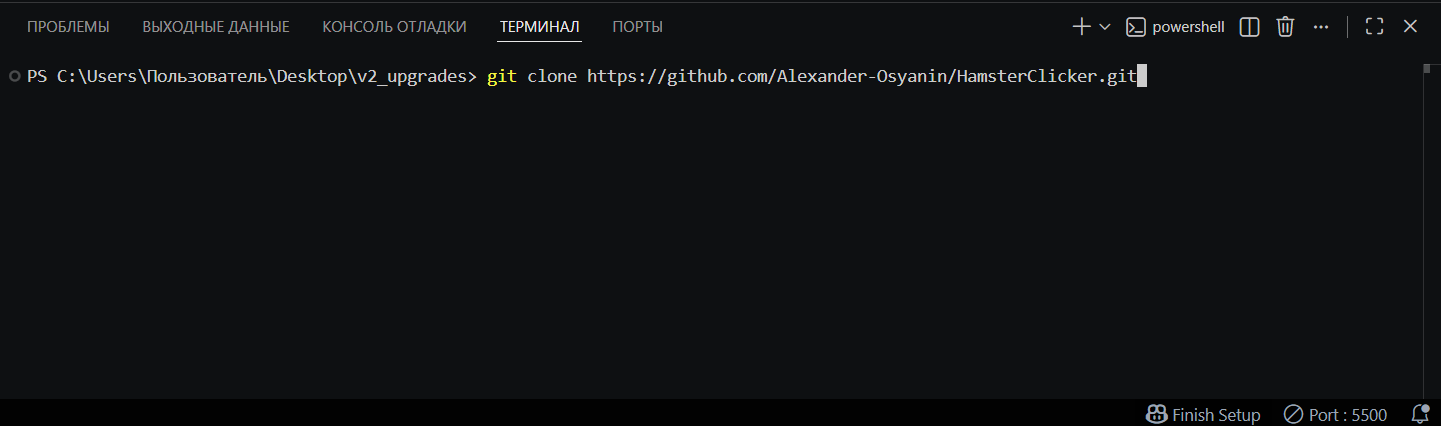
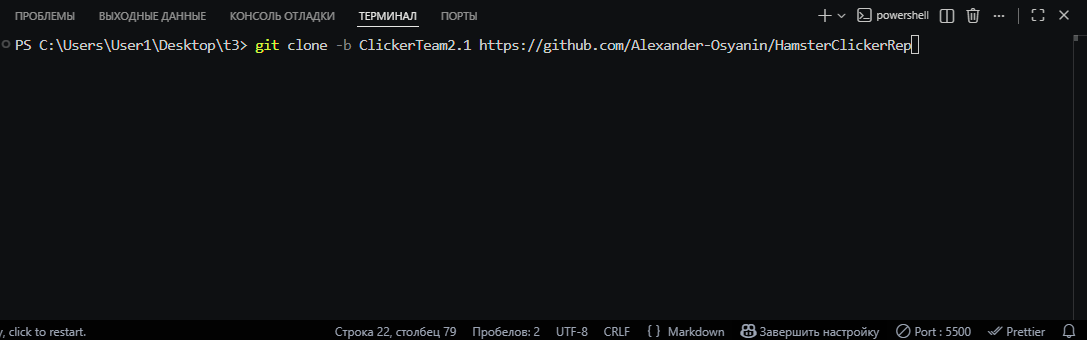
fix: In index.html changed the path to js and changed the start guide

diff --git a/index.html b/index.html
@@ -33,6 +33,6 @@
 
       <div class="footer">💾 Прогресс автоматически сохраняется</div>
     </div>
-    <script type="module" src="/module/game.js"></script>
+    <script type="module" src="../HamsterClickerRep/module/game.js"></script>
   </body>
 </html>

diff --git a/README.md b/README.md
@@ -19,7 +19,7 @@
 
 ---
 
-3. В терминале вашего редактора кода пишете команду `git clone https://github.com/Alexander-Osyanin/HamsterClicker`
+3. В терминале вашего редактора кода пишете команду `git clone -b ClickerTeam2.1 https://github.com/Alexander-Osyanin/HamsterClickerRep`
 
 ![guide2](img/guide/guide2.png)
 
